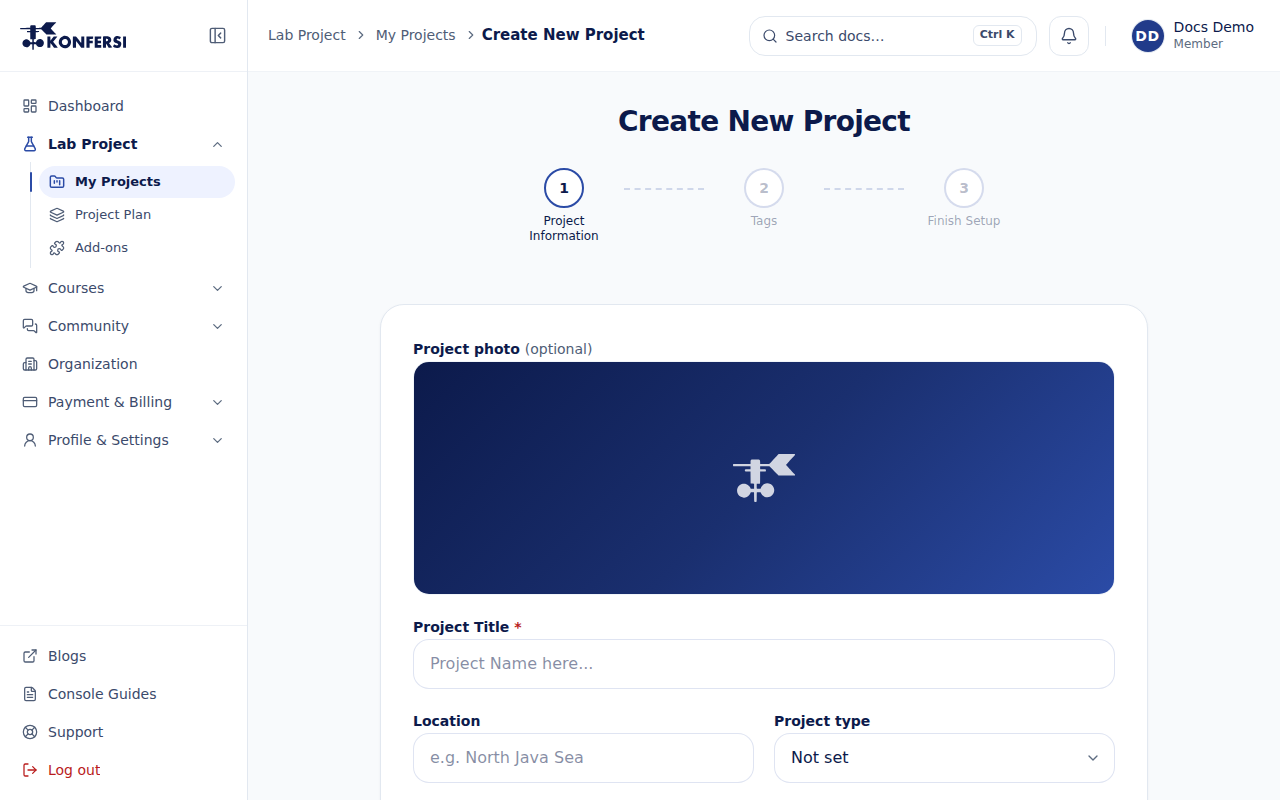
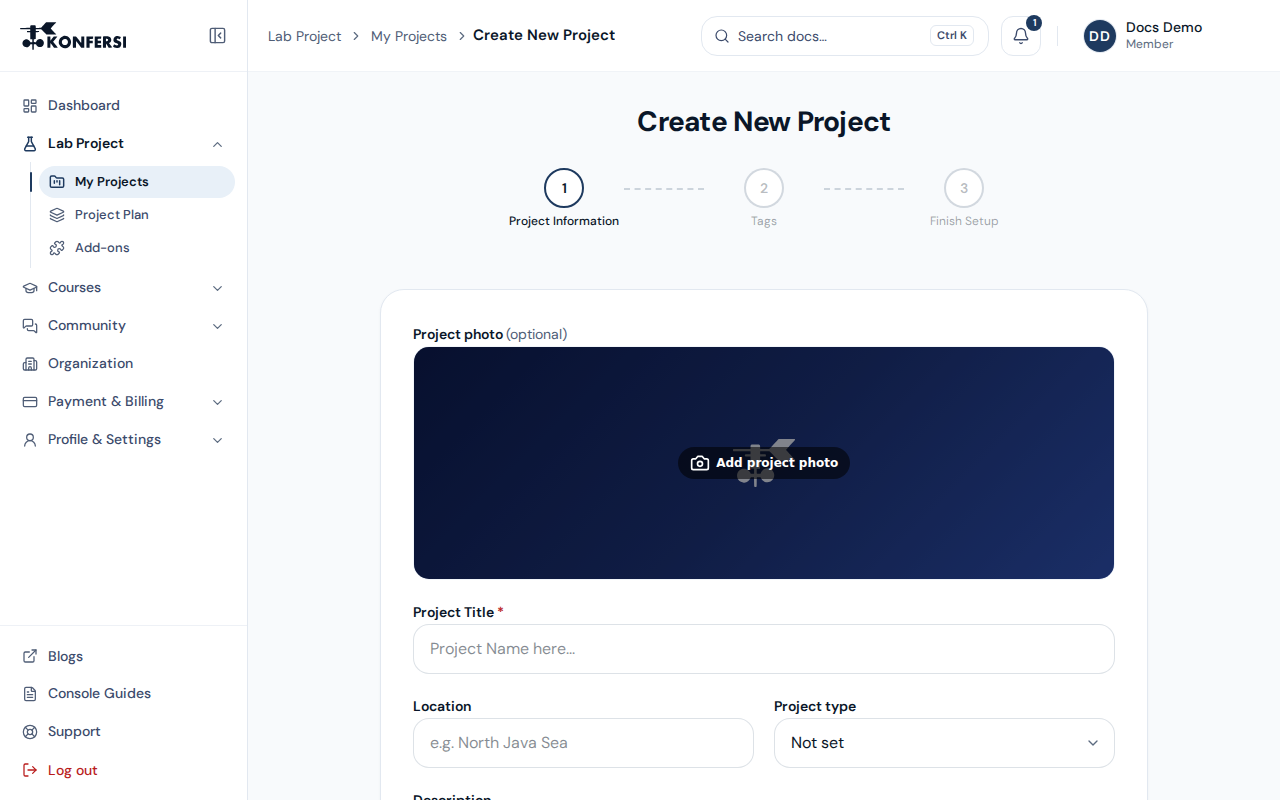
docs(console-projects): project type step, id console screenshots, refreshed Lab home (#29) (#32)

diff --git a/docs/id/using-konfersi/console-projects.md b/docs/id/using-konfersi/console-projects.md
@@ -27,11 +27,15 @@ Saat pertama kali membuka Console, [panduan sambutan](console-guides.md) menawar
 ## Membuat proyek
 
 1. Buka **Proyek Lab → Proyek Saya**, lalu pilih **Buat Proyek Baru**.
-2. **Informasi Proyek**: isi **Judul Proyek** (wajib). **Deskripsi** boleh diisi atau dikosongkan. Pilih **Lanjutkan**.
-3. **Tag**: cari tag yang sudah ada, atau ketik tag baru lalu pilih **Buat Baru**. Anda dapat menambahkan hingga 5 tag baru. Pilih **Lanjutkan**, atau **Lewati untuk Sekarang** jika ingin menambahkan tag nanti.
-4. **Selesaikan Setup**: pilih salah satu kartu paket. Pilih **Lihat Detail Manfaat** untuk melihat isi tiap paket. Harga ditampilkan belum termasuk PPN.
-5. Pilih **Pratinjau Setup**, lalu periksa ringkasan **Pratinjau Setup Proyek**.
-6. Selesaikan:
+2. **Jenis proyek apa?**: pilih **Metocean Lab** untuk data, analisis, dan laporan metocean dengan paket dan kuotanya, lalu pilih **Lanjutkan**. (**Notebook**, bertanda *Eksperimental*, membuat notebook Python yang berjalan di browser Anda, tanpa paket atau pembayaran. Panduan ini selanjutnya membahas proyek Metocean Lab.)
+
+   ![Memilih jenis proyek di Console](../../../assets/screenshots/id/console-create-project-type.png)
+
+3. **Informasi Proyek**: isi **Judul Proyek** (wajib). **Foto proyek**, **Lokasi**, **Jenis proyek**, dan **Deskripsi** boleh diisi atau dikosongkan. Pilih **Lanjutkan**.
+4. **Tag**: cari tag yang sudah ada, atau ketik tag baru lalu pilih **Buat Baru**. Anda dapat menambahkan hingga 5 tag baru. Pilih **Lanjutkan**, atau **Lewati untuk Sekarang** jika ingin menambahkan tag nanti.
+5. **Selesaikan Setup**: pilih salah satu kartu paket. Pilih **Lihat Detail Manfaat** untuk melihat isi tiap paket. Harga ditampilkan belum termasuk PPN.
+6. Pilih **Pratinjau Setup**, lalu periksa ringkasan **Pratinjau Setup Proyek**.
+7. Selesaikan:
    - Untuk paket uji coba gratis, pilih **Selesaikan Setup**. Proyek langsung dibuat.
    - Untuk paket berbayar, pilih **Lanjutkan Pembayaran** untuk mengatur dan membayar sekarang, atau **Masukkan ke Keranjang** untuk membayar nanti dari **Keranjang Pesanan**.
 
@@ -39,7 +43,7 @@ Saat pertama kali membuka Console, [panduan sambutan](console-guides.md) menawar
 
 Nama paket, isi paket, dan harga terkini diambil dari katalog yang berlaku dan ditampilkan di Console saat checkout. Untuk gambaran umum, lihat [Paket & harga](../billing/plans-and-pricing.md). Untuk proses pembayaran, lihat [Pembayaran](../billing/payments.md).
 
-![Formulir Create New Project di Console (antarmuka bahasa Inggris)](../../../assets/screenshots/en/console-create-project.png)
+![Langkah Informasi Proyek pada Buat Proyek Baru di Console](../../../assets/screenshots/id/console-create-project.png)
 
 ## Mencari dan membuka proyek
 
@@ -51,7 +55,7 @@ Di **Proyek Saya**, Anda dapat:
 
 Untuk membuka detail proyek, buka menu proyek lalu pilih **Detail**. Untuk langsung ke Lab, pilih **Lab Platform** atau klik ganda proyek tersebut.
 
-![Daftar Projects Management di Console (antarmuka bahasa Inggris)](../../../assets/screenshots/en/console-projects.png)
+![Daftar Manajemen Proyek di Console](../../../assets/screenshots/id/console-projects.png)
 
 ## Isi halaman proyek
 

diff --git a/docs/en/using-konfersi/console-projects.md b/docs/en/using-konfersi/console-projects.md
@@ -27,11 +27,15 @@ The first time you open the Console, a [welcome guide](console-guides.md) offers
 ## Create a project
 
 1. Go to **Lab Project → My Projects** and select **Create New Project**.
-2. **Project Information**: enter a **Project Title**. This is required. Adding a **Description** is optional. Select **Continue**.
-3. **Tags**: search for existing tags, or type a new one and select **Create New**. You can add up to 5 new tags. Select **Continue**, or select **Skip for Now** to add tags later.
-4. **Finish Setup**: choose a plan card. Select **See Detail Benefits** to see what each plan includes. Prices are shown excluding VAT.
-5. Select **Preview Setup** and check the **Preview Project Setup** summary.
-6. Finish:
+2. **What kind of project?**: choose **Metocean Lab** for metocean data, analyses and reports with a plan and its quotas, then select **Continue**. (**Notebook**, marked *Experimental*, creates Python notebooks that run in your browser, with no plan or payment. The rest of this guide covers Metocean Lab projects.)
+
+   ![Choosing the project type in the Console](../../../assets/screenshots/en/console-create-project-type.png)
+
+3. **Project Information**: enter a **Project Title**. This is required. **Project photo**, **Location**, **Project type** and **Description** are optional. Select **Continue**.
+4. **Tags**: search for existing tags, or type a new one and select **Create New**. You can add up to 5 new tags. Select **Continue**, or select **Skip for Now** to add tags later.
+5. **Finish Setup**: choose a plan card. Select **See Detail Benefits** to see what each plan includes. Prices are shown excluding VAT.
+6. Select **Preview Setup** and check the **Preview Project Setup** summary.
+7. Finish:
    - For the free trial plan, select **Finish Setup**. The project is created straight away.
    - For a paid plan, select **Proceed Payment** to configure and pay now, or **Add to Cart** to pay later from **Order Cart**.
 
@@ -39,7 +43,7 @@ The first time you open the Console, a [welcome guide](console-guides.md) offers
 
 Plan names, what each plan includes, and current prices come from the live catalogue and are shown in the Console at checkout. For an overview, see [Plans & pricing](../billing/plans-and-pricing.md). For checkout, see [Payments](../billing/payments.md).
 
-![The Create New Project form in the Console](../../../assets/screenshots/en/console-create-project.png)
+![The Project Information step of Create New Project in the Console](../../../assets/screenshots/en/console-create-project.png)
 
 ## Find and open projects
 
